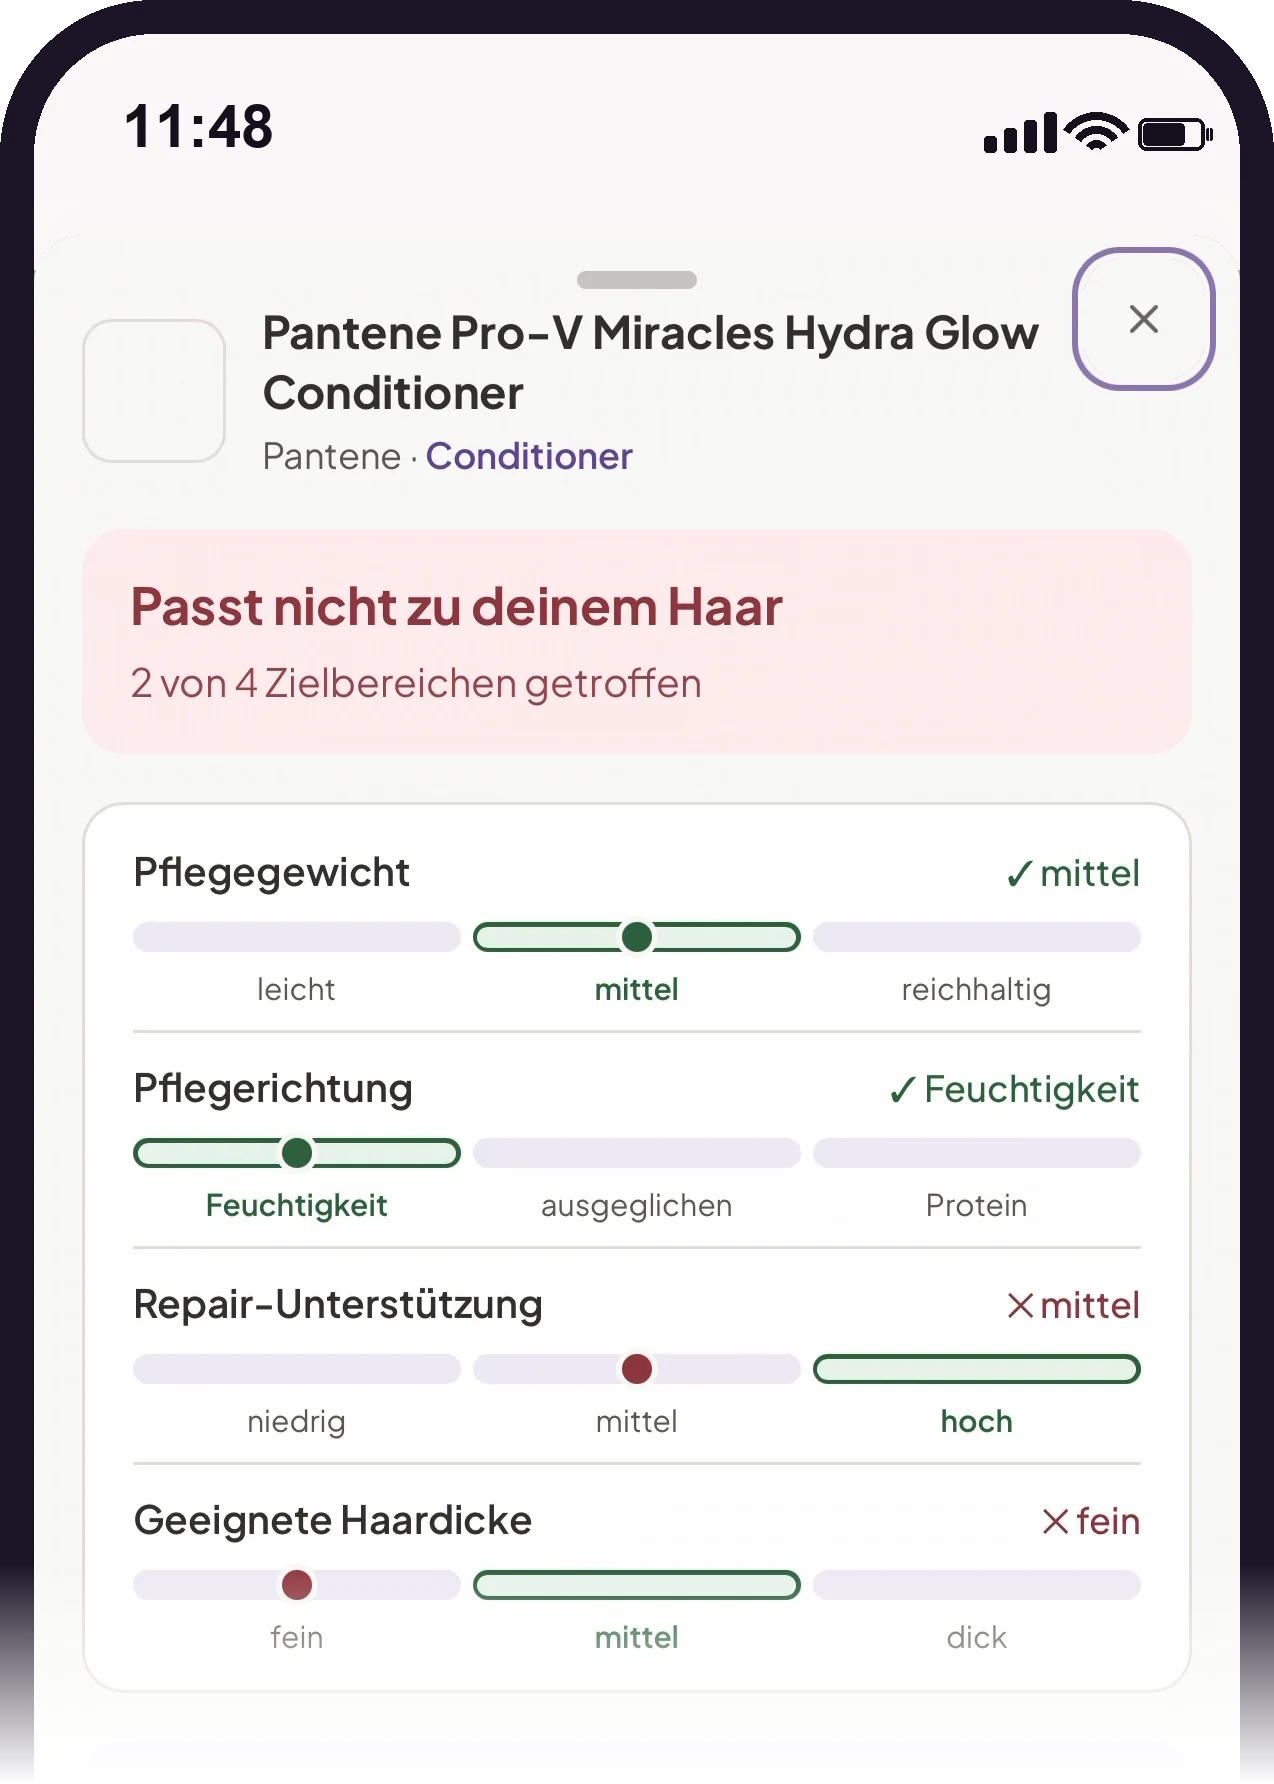
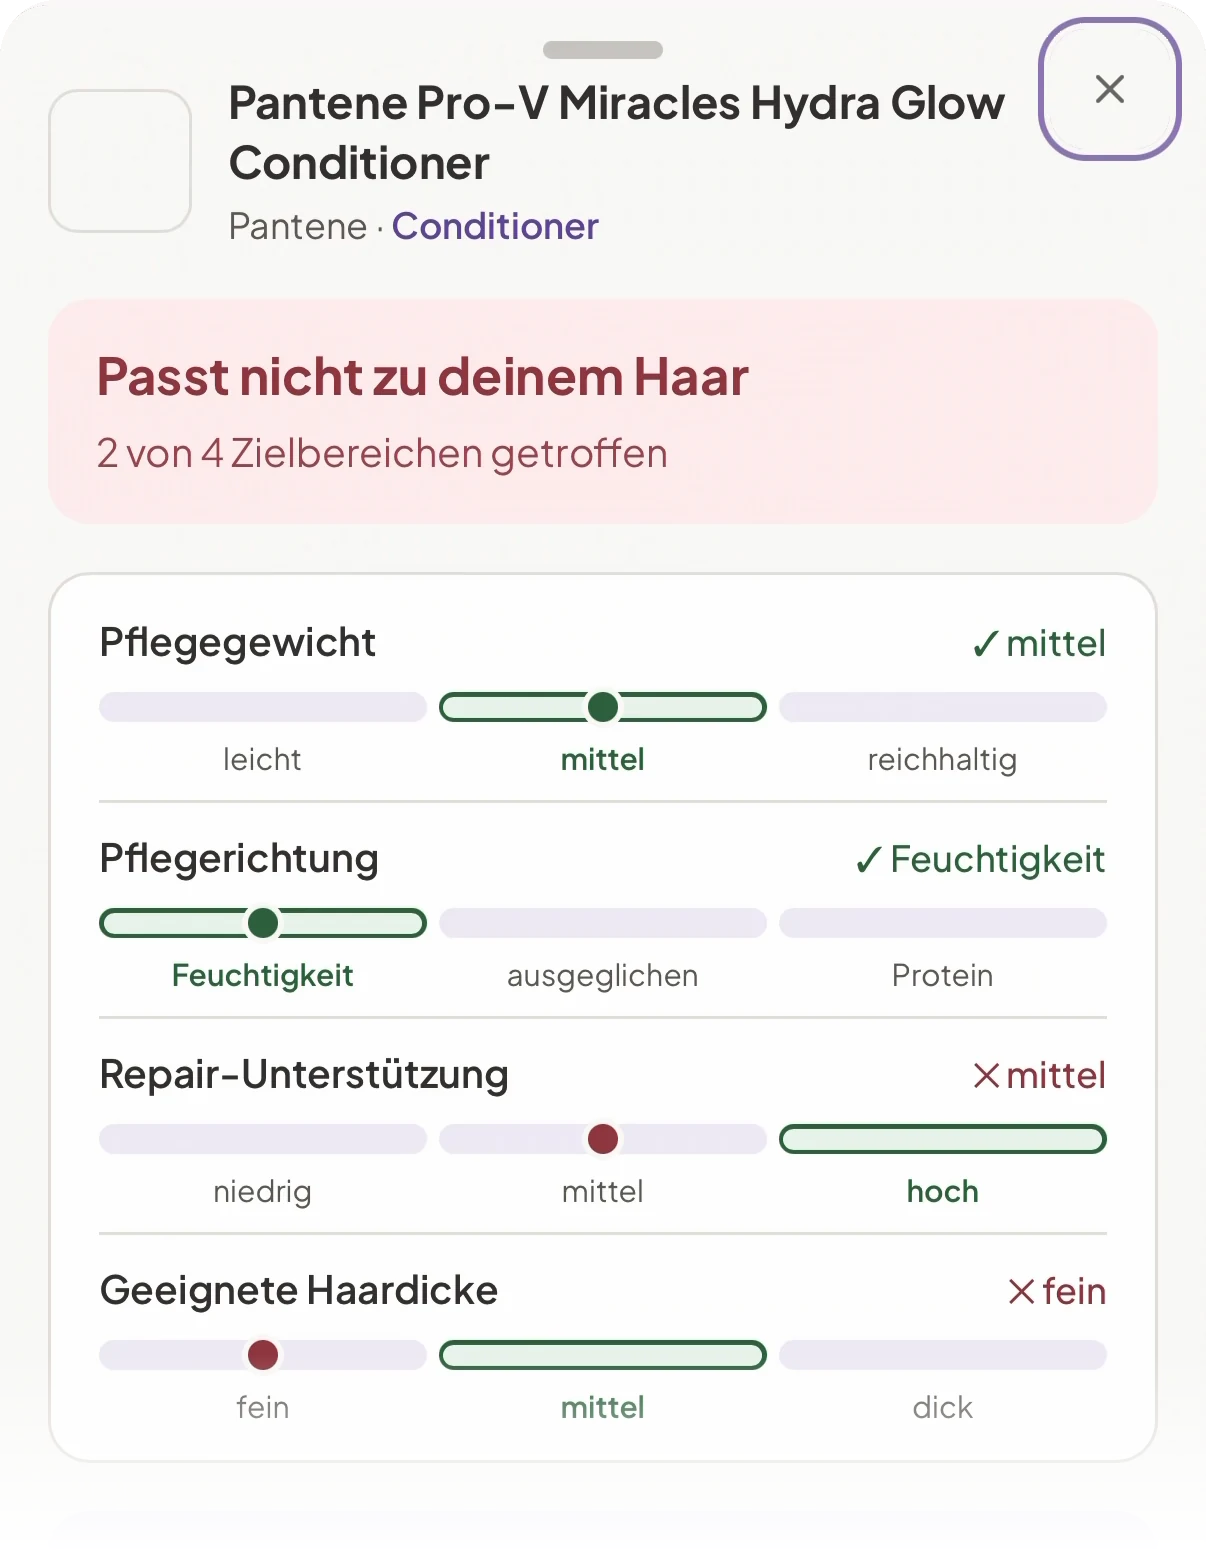
fix(scanner-offer): example evaluation as plain result sheet without status bar

diff --git a/docs/scanner-offer/mockups/scanner-offer-page.html b/docs/scanner-offer/mockups/scanner-offer-page.html
@@ -190,7 +190,7 @@ button:focus-visible,a:focus-visible,.plan:focus-within{outline:2px solid var(--
     <!-- 4 · So sieht die Auswertung aus -->
     <div class="shot">
       <div class="lbl"><b>So sieht die Auswertung aus</b><span class="badge">Beispiel</span></div>
-      <div class="frame"><img src="device-scan-example.webp" width="1274" height="2768" alt="Beispiel-Auswertung: Pantene Conditioner, Passt nicht zu deinem Haar, 2 von 4 Zielbereichen, vier Achsen mit Häkchen und Kreuzen"></div>
+      <div class="frame"><img src="device-scan-example.webp" width="1206" height="1554" alt="Beispiel-Auswertung: Pantene Conditioner, Passt nicht zu deinem Haar, 2 von 4 Zielbereichen, vier Achsen mit Häkchen und Kreuzen"></div>
       <div class="axes4">
         <div><b>Pflegegewicht</b><span class="ok">✓ passt</span></div>
         <div><b>Pflegerichtung</b><span class="ok">✓ passt</span></div>

diff --git a/src/components/scanner-offer/scanner-offer.tsx b/src/components/scanner-offer/scanner-offer.tsx
@@ -174,10 +174,10 @@ function DeviceShot({ alt, src }: { alt: string; src: string }) {
       <Image
         alt={alt}
         className="block h-auto w-full drop-shadow-[0_18px_30px_rgba(42,24,69,0.22)]"
-        height={1784}
+        height={1554}
         sizes="(max-width: 480px) 80vw, 320px"
         src={src}
-        width={1274}
+        width={1206}
       />
     </div>
   )

diff --git a/docs/scanner-offer/README.md b/docs/scanner-offer/README.md
@@ -18,7 +18,7 @@ Die Komponente ist bewusst frei von App-Logik, damit sie sich an der Stelle der 
 1. **Haarprofil.** Vorname, ein Satz („Welliges, feines Haar mit mittlerer Dichte.“), Chips aus den Quiz-Antworten, die drei Ausgangslage-Dimensionen aus dem bestehenden `publicOfferModel`, „Das Gute“.
 2. **Brücke.** „Der Scanner zeigt dir, ob deine Produkte zu Hause oder in der Drogerie zu deinen Haaren passen. Handy dranhalten, eine Sekunde: passt oder passt nicht. Mit dem Grund. Und zu jedem, was nicht passt, drei Alternativen.“
 3. **So sieht der Scanner aus.** Regal-Foto mit Hand, Handy und offenem Scanner (Composite aus dem Ad-Set, Screen ist der echte App-Screen).
-4. **So sieht die Auswertung aus.** Echter Ergebnis-Screen als Geräte-Bild in voller Auflösung (Statusleiste komplett, unten ausgeblendet), als Beispiel markiert, mit fester Profilangabe. Es wird **kein Produkt der Person bewertet**, das Quiz fragt keins ab.
+4. **So sieht die Auswertung aus.** Ergebnis-Sheet aus dem echten App-Screen in voller Auflösung, ohne Statusleiste und Geräterahmen, unten ausgeblendet, als Beispiel markiert, mit fester Profilangabe. Es wird **kein Produkt der Person bewertet**, das Quiz fragt keins ab.
 5. **Freischalten.** Trial-Box mit Zeitleiste (Heute, Tag 5, Tag 7), zwei Tarife, beide mit 7 Tagen kostenlos, Jahr vorausgewählt, Button „Scanner freischalten, 7 Tage kostenlos“, Folgepreis im Kleingedruckten.
 6. **Was in der Testphase drin ist.** Fünf Zeilen, alle „frei“.
 7. **Stimmen aus der Beta.** Die drei bestehenden Textzitate. Videos (Steffi, Lucy) kommen später von Jonas.
